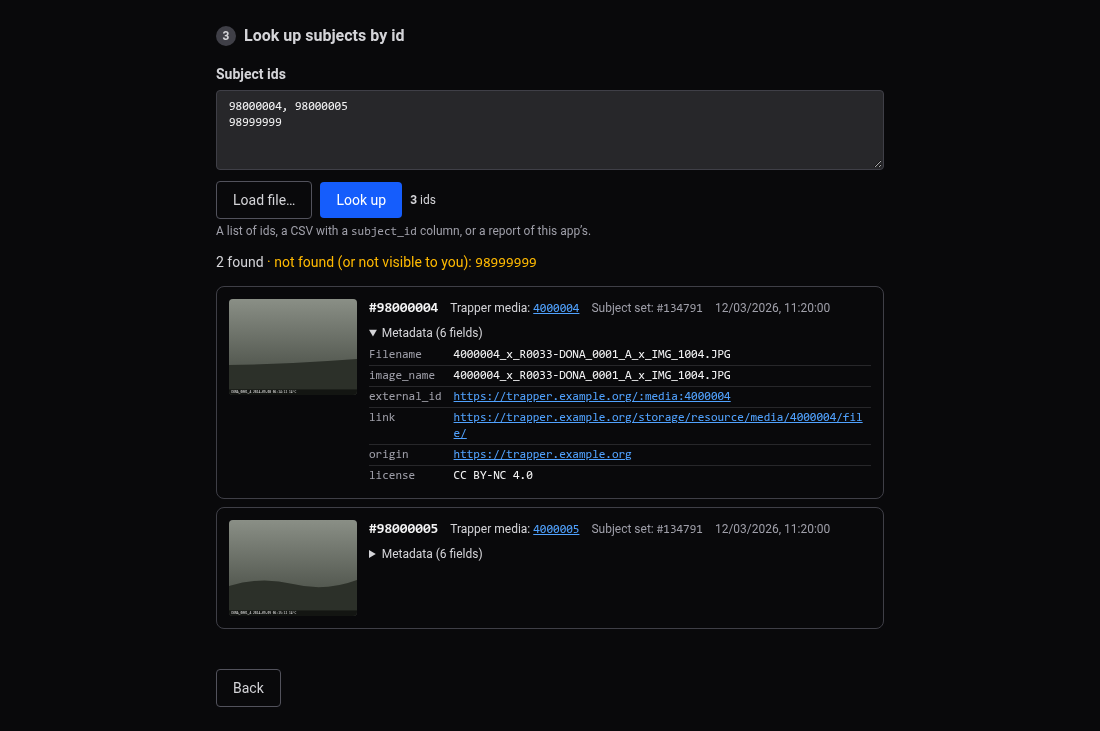
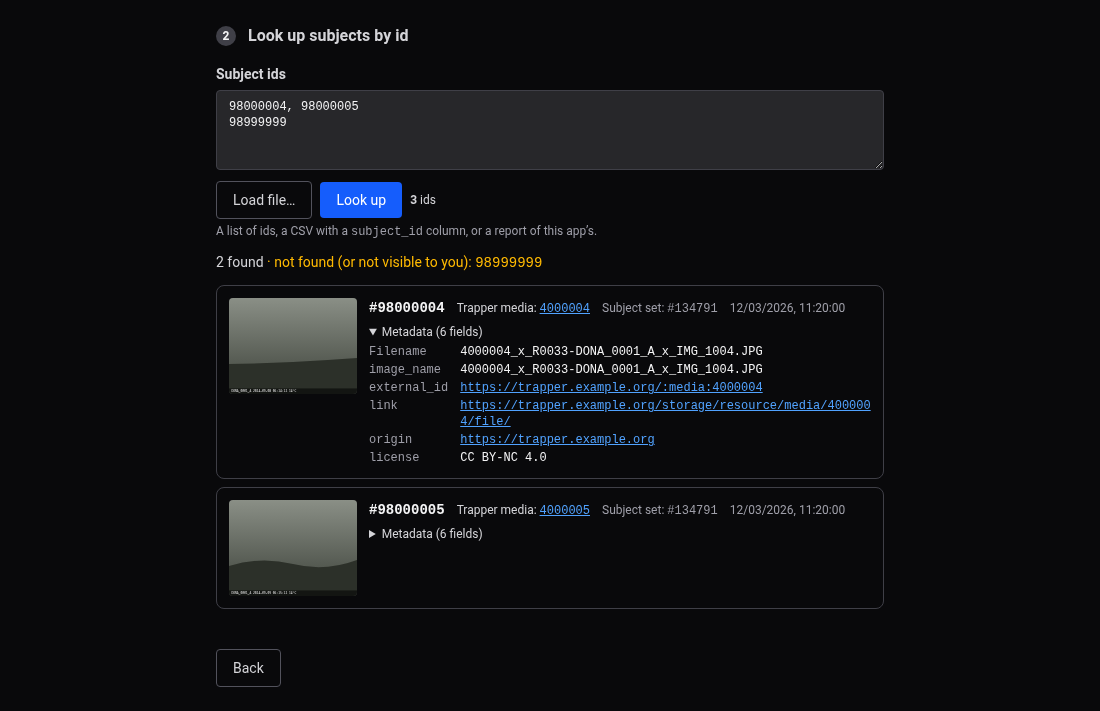
Screenshots of the utilities with the saved accounts and the two-phase validation, and the manual's text for them

diff --git a/tools/screenshots/mock_api.js b/tools/screenshots/mock_api.js
@@ -143,16 +143,21 @@
     return events
   }
 
-  const validationEvents = () => {
+  const validationEvents = (compared) => {
     const subjects = 26114
     const deployments = DEPLOYMENTS.map((d) => { const c = counts(d); return { ...c, expected: c.selected } })
     const expected = deployments.reduce((s, d) => s + d.expected, 0)
     const missing = Array.from({ length: 37 }, (_, i) => ({ media_id: 4300000 + i * 17, deployment_id: DEPLOYMENTS[2].deployment_id, file_name: `IMG_${2200 + i}.JPG` }))
-    return [
+    const alone = [
       { type: 'subjects', id: 134791, name: 'Doñana_2_R0033_33_2026-03', total: subjects },
       { type: 'progress', phase: 'subjects', done: subjects },
+    ]
+    const fetched = [
       { type: 'trapper', total: 6 },
       ...deployments.map((d) => ({ type: 'deployment', ...counts(DEPLOYMENTS.find((x) => x.deployment_id === d.deployment_id)) })),
+    ]
+    return [
+      ...(compared ? fetched : alone),
       {
         type: 'report', subject_set: { id: 134791, name: 'Doñana_2_R0033_33_2026-03' }, subjects, media: subjects - 3,
         uploaded: [], duplicated: [
@@ -164,12 +169,15 @@
           { subject_id: 98000611, media_id: null, issues: ['no #mediaID'] },
           { subject_id: 98001702, media_id: 4001702, issues: ['external_id points to another Trapper instance'] },
         ],
-        compared: true, expected, missing, extra: [{ media_id: 3999001, subject_ids: [97999001] }],
-        deployments: deployments.map((d) => ({
-          deployment_id: d.deployment_id, expected: d.expected,
-          missing: d.deployment_id === DEPLOYMENTS[2].deployment_id ? 37 : 0,
-          uploaded: d.expected - (d.deployment_id === DEPLOYMENTS[2].deployment_id ? 37 : 0),
-        })),
+        compared,
+        ...(compared ? {
+          expected, missing, extra: [{ media_id: 3999001, subject_ids: [97999001] }],
+          deployments: deployments.map((d) => ({
+            deployment_id: d.deployment_id, expected: d.expected,
+            missing: d.deployment_id === DEPLOYMENTS[2].deployment_id ? 37 : 0,
+            uploaded: d.expected - (d.deployment_id === DEPLOYMENTS[2].deployment_id ? 37 : 0),
+          })),
+        } : {}),
       },
       { type: 'done' },
     ]
@@ -234,7 +242,7 @@
       '/api/upload/dry-run': () => ({ events: uploadEvents(true), hold: true }),
       '/api/upload/start': () => ({ events: uploadEvents(false), hold: true }),
       '/api/zooniverse/download-subject-sets': () => ({ events: downloadEvents(), hold: true }),
-      '/api/validation/subject-set': () => ({ events: validationEvents() }),
+      '/api/validation/subject-set': (body) => ({ events: validationEvents(Boolean(body.trapper)) }),
       '/api/metadata/update': () => ({ events: metadataEvents() }),
       '/api/export/classifications': () => ({ events: exportEvents() }),
       '/api/export/import': (body) => ({

diff --git a/tools/screenshots/capture.py b/tools/screenshots/capture.py
@@ -169,22 +169,6 @@ def settings(page: Page) -> None:
     save(page, "settings")
 
 
-def pick_trapper(page: Page) -> None:
-    """A Trapper selection form on the page: connect, and pick R0033."""
-    page.get_by_role("button", name="Test Connection").last.click()
-    expect(page.get_by_text("research project(s) available")).to_be_visible()
-    page.get_by_label("Research project").select_option("2")
-    page.get_by_label("Classification project").select_option("10")
-    page.get_by_label("Collection", exact=True).select_option("33")
-    expect(page.get_by_label("R0033-DONA_0001_A")).to_be_visible()
-
-
-def connect_zooniverse(page: Page) -> None:
-    page.get_by_role("button", name="Test Connection").first.click()
-    expect(page.get_by_text("Connected as field.team")).to_be_visible()
-    page.get_by_label("Zooniverse project").select_option("30567")
-
-
 def choose(page: Page, label: str, option: str | re.Pattern) -> None:
     """A dropdown that can be typed in: open it, pick the option."""
     page.get_by_label(label, exact=True).click()
@@ -204,13 +188,18 @@ def classifications_zooniverse(page: Page) -> None:
     expect(page.get_by_text("Classification export available")).to_be_visible()
 
 
-def classifications_trapper(page: Page) -> None:
-    classifications_zooniverse(page)
-    page.get_by_role("button", name="Next", exact=True).click()
+def pick_trapper(page: Page) -> None:
+    """A Trapper selection form on the page (the saved account): pick R0033."""
     choose(page, "Research project", re.compile("DONA"))
     choose(page, "Classification project", re.compile("Doñana 2024"))
     choose(page, "Collection", re.compile("R0033"))
     expect(page.get_by_label("R0033-DONA_0001_A")).to_be_visible()
+
+
+def classifications_trapper(page: Page) -> None:
+    classifications_zooniverse(page)
+    page.get_by_role("button", name="Next", exact=True).click()
+    pick_trapper(page)
 
 
 @shot("classifications-zooniverse")
@@ -249,10 +238,15 @@ def utils(page: Page) -> None:
     save(page, "utils")
 
 
+def pick_subject_set(page: Page, name: str | re.Pattern) -> None:
+    choose(page, "Project", re.compile("European Camera Trap Project"))
+    choose(page, "Subject set", name)
+
+
 @shot("download-subject-sets")
 def download_subject_sets(page: Page) -> None:
     to_util(page, "Download subject sets")
-    connect_zooniverse(page)
+    choose(page, "Project", re.compile("European Camera Trap Project"))
     page.get_by_text("Pilot — autumn 2025").click()
     page.get_by_text("Doñana_2_R0031_31_2025-12").click()
     page.get_by_role("button", name="Download", exact=True).click()
@@ -263,19 +257,20 @@ def download_subject_sets(page: Page) -> None:
 @shot("validation")
 def validation(page: Page) -> None:
     to_util(page, "Validation & audit")
-    connect_zooniverse(page)
-    page.get_by_label("Subject set", exact=True).select_option("134791")
-    pick_trapper(page)
+    pick_subject_set(page, re.compile("#134791"))
     page.get_by_role("button", name="Validate", exact=True).click()
+    compare = page.get_by_role("button", name="Compare", exact=True)
+    expect(compare).to_be_visible()
+    pick_trapper(page)
+    compare.click()
     expect(page.get_by_role("button", name="Download report (JSON)")).to_be_visible()
-    save(page, "validation", top=heading(page, "Validate"), bottom=page.get_by_role("button", name="Back", exact=True))
+    save(page, "validation", top=heading(page, "Validate the subject set"), bottom=page.get_by_role("button", name="Back", exact=True))
 
 
 @shot("update-metadata")
 def update_metadata(page: Page) -> None:
     to_util(page, "Update metadata")
-    connect_zooniverse(page)
-    page.get_by_label("Subject set", exact=True).select_option("134791")
+    pick_subject_set(page, re.compile("#134791"))
     pick_trapper(page)
     page.get_by_role("button", name="Dry run", exact=True).click()
     expect(page.get_by_role("button", name="Download log (JSON)")).to_be_visible()
@@ -285,7 +280,6 @@ def update_metadata(page: Page) -> None:
 @shot("subjects")
 def subjects(page: Page) -> None:
     to_util(page, "Subjects")
-    connect_zooniverse(page)
     page.get_by_label("Subject ids", exact=True).fill("98000004, 98000005\n98999999")
     page.get_by_role("button", name="Look up").click()
     page.get_by_text("Metadata (6 fields)").first.click()

diff --git a/docs/user-manual-web.md b/docs/user-manual-web.md
@@ -363,8 +363,9 @@ several species were seen, "no animal" answers don't count.
 
 ## 6. Utilities
 
-**🧰 Utils**, on the first step, opens four tools. Each starts by connecting to Zooniverse and
-choosing a project.
+**🧰 Utils**, on the first step, opens four tools. Each uses the Zooniverse and Trapper
+accounts saved in the [settings](#3-settings) — there is nothing to fill in or test — and starts
+by choosing a project.
 
 ![The four utilities](img/screenshots/utils.png){ loading=lazy }
 
@@ -388,19 +389,21 @@ left half-written.
 
 ### Validation & audit
 
-Checks a subject set.
+Checks a subject set in two phases.
 
 1. Choose the **subject set**.
-2. **Compare with what an upload would send** (on by default): choose the Trapper collection and
-   the criteria it was uploaded with. Otherwise only the subject set itself is checked.
-3. **Validate**.
+2. **Validate** it on its own, without Trapper: duplicated images, subjects that can't be traced
+   back to Trapper, and missing metadata fields.
+3. Then **compare it with Trapper**: choose the collection and the criteria it was uploaded with,
+   and **Compare**. It reuses the subjects of the first phase, and adds the missing and extra images
+   and the metadata fields that differ from what an upload would set.
 
 | Finding | Meaning |
 |---|---|
 | Missing | Images an upload would send that aren't in the subject set. *(compared)* |
 | Extra | Images in the subject set an upload wouldn't send. *(compared)* |
 | Duplicated | A Trapper image in more than one subject. |
-| Unmatched | Subjects with no Trapper media id in their metadata. |
+| Unmatched | Subjects whose Trapper media can't be read from their metadata (`external_id`, `origin`, or the `Filename`'s `<media id>_x_` prefix of older uploads). |
 | Metadata issues | Required fields missing — and, compared, fields different from what an upload would set. |
 
 With a comparison, a table shows each deployment's expected, uploaded and missing images. Each
